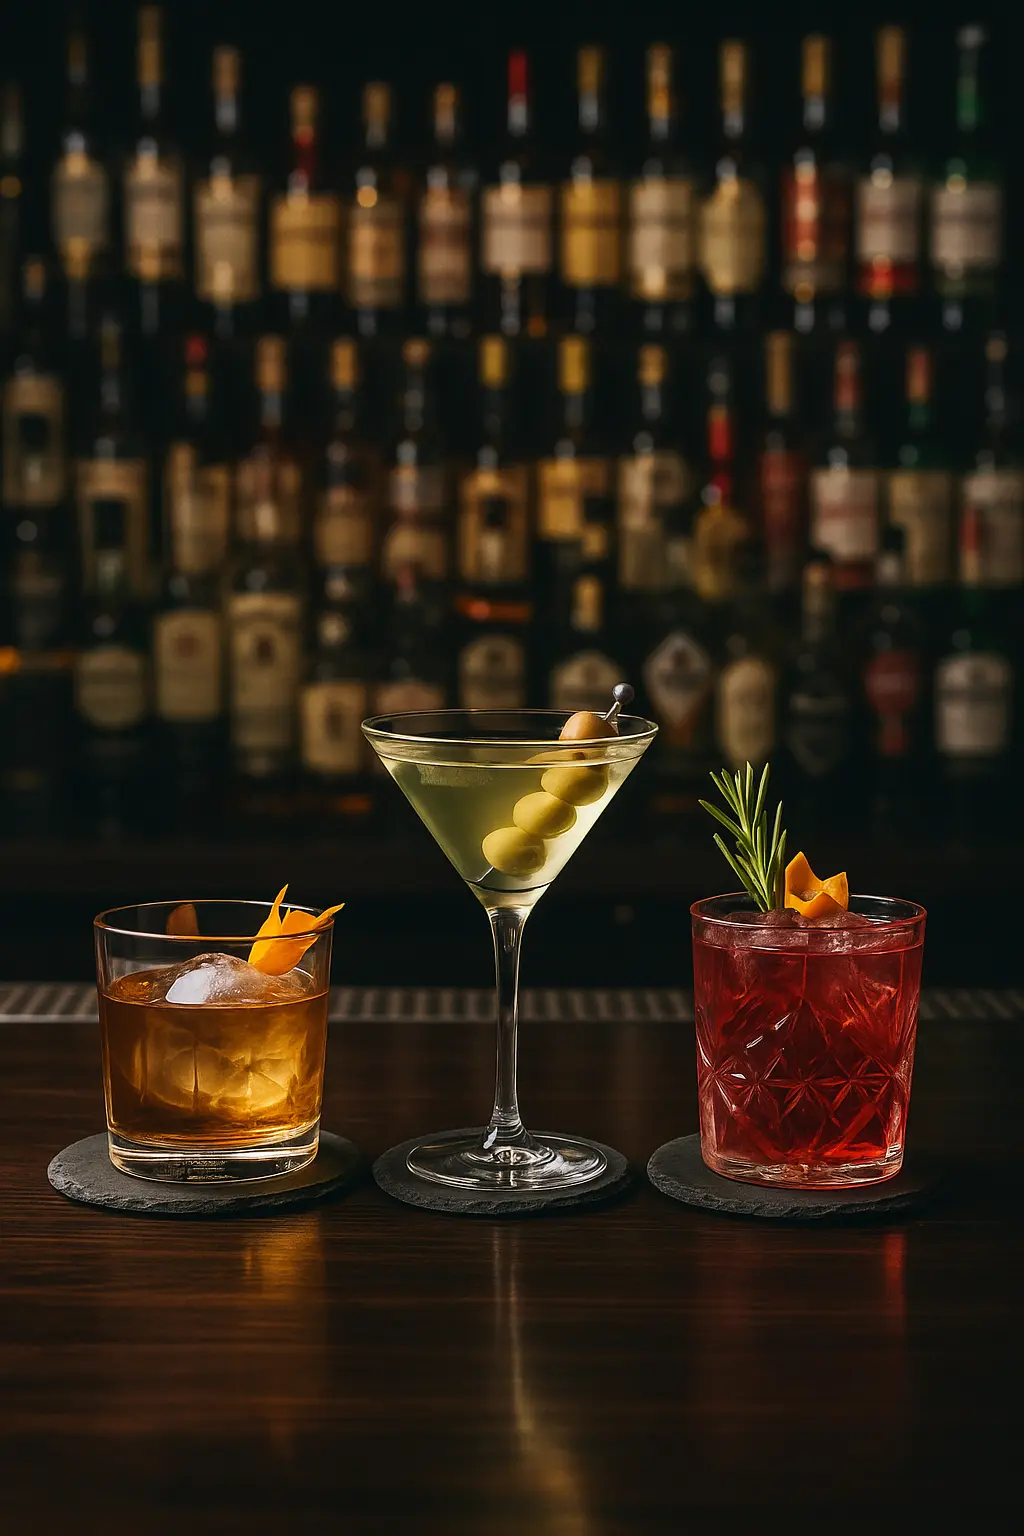
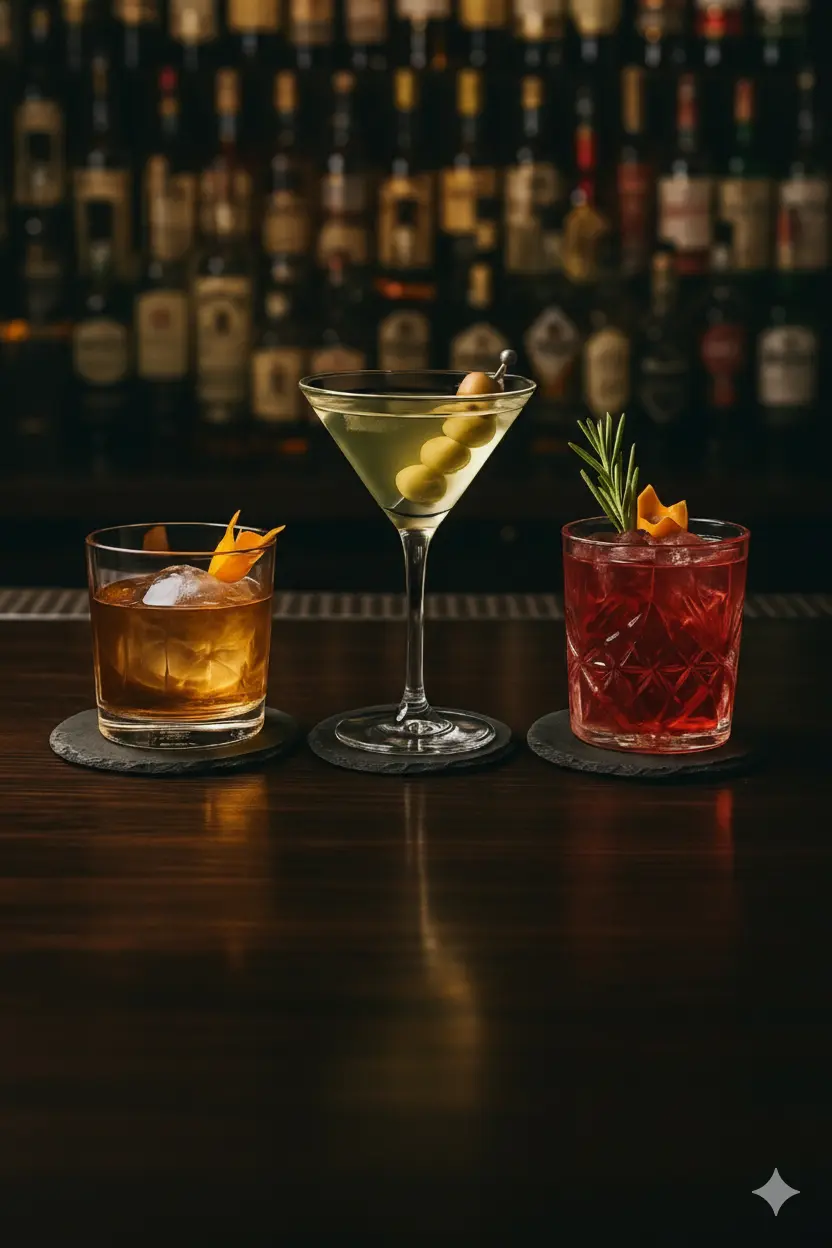
enhance: hero background media queries adjustments for better responsiveness

diff --git a/src/index.css b/src/index.css
@@ -392,8 +392,9 @@ body {
    width: 100%;
    height: 100vh;
    background-image: url('/images/hero-home-mobile.webp');
-   background-size: 163%;
-   background-position: center 167%;
+   background-size: cover;
+   background-position: center;
+   background-attachment: fixed;
    background-repeat: no-repeat;
    z-index: -2;
    pointer-events: none;
@@ -857,37 +858,14 @@ body {
 
 
 /* Media Queries */
-@media (min-width: 430px) {
-   .hero-bg {
-      background-position: center 147%;
-   }
-}
 
-@media (min-width: 450px) {
+@media (min-width: 500px) and (max-width: 646px) {
    .hero-bg {
-      background-position: center 127%;
-   }
-}
-
-@media (min-width: 500px) {
-   .hero-bg {
-      background-position: center 97%;
-   }
-
-   .btn-language {
-      width: 2.5em;
-      height: 2.5em;
-      font-size: 1.2rem;
+      background-size: 160%;
    }
 
    .home-hero {
-      padding: 3em;
-   }
-}
-
-@media (min-width: 550px) {
-   .hero-bg {
-      background-position: center 87%;
+      padding: 4em;
    }
 }
 
@@ -939,7 +917,17 @@ body {
    }
 }
 
-@media (min-width: 650px) {
+@media (min-width: 646px) and (max-width: 878px) {
+   .hero-bg {
+      background-size: 120%;
+   }
+}
+
+@media (min-width: 646px) {
+   .hero-bg {
+      background-size: 120%;
+   }
+
    .home-hero {
       padding: 6em;
    }
@@ -977,22 +965,10 @@ body {
    }
 }
 
-@media (min-width: 700px) {
-   .hero-bg {
-      background-size: 147%;
-   }
-}
-
-@media (min-width: 800px) {
-   .hero-bg {
-      background-size: 127%;
-   }
-}
-
 @media (min-width: 900px) {
    .hero-bg {
-      background-size: 117%;
-      background-position: center 85%;
+      background-size: 1200px auto;
+      background-position: center 45%;
    }
 
    .cocktail-list.carousel {
@@ -1027,11 +1003,6 @@ body {
 }
 
 @media (min-width: 1200px) {
-   .hero-bg {
-      background-size: 100%;
-      background-position: center 70%;
-   }
-
    .cocktail-list.carousel {
       grid-auto-columns: min(420px, 38vw);
       gap: min(30px, 4vw);
